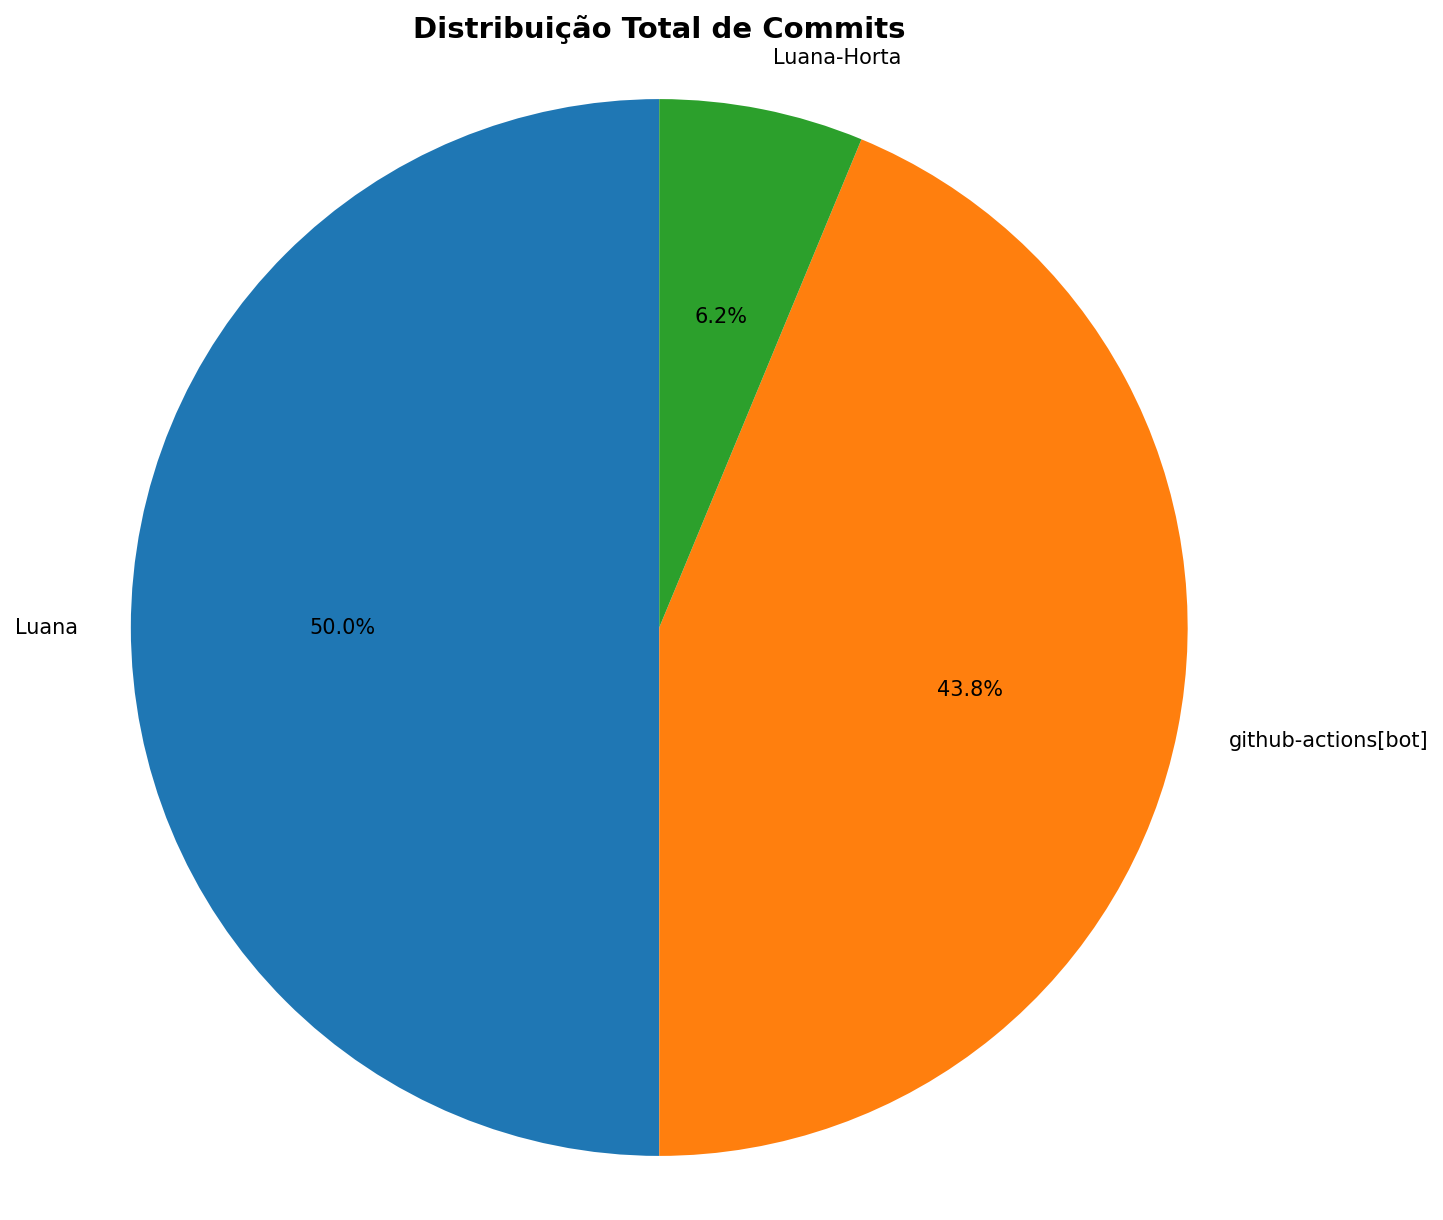
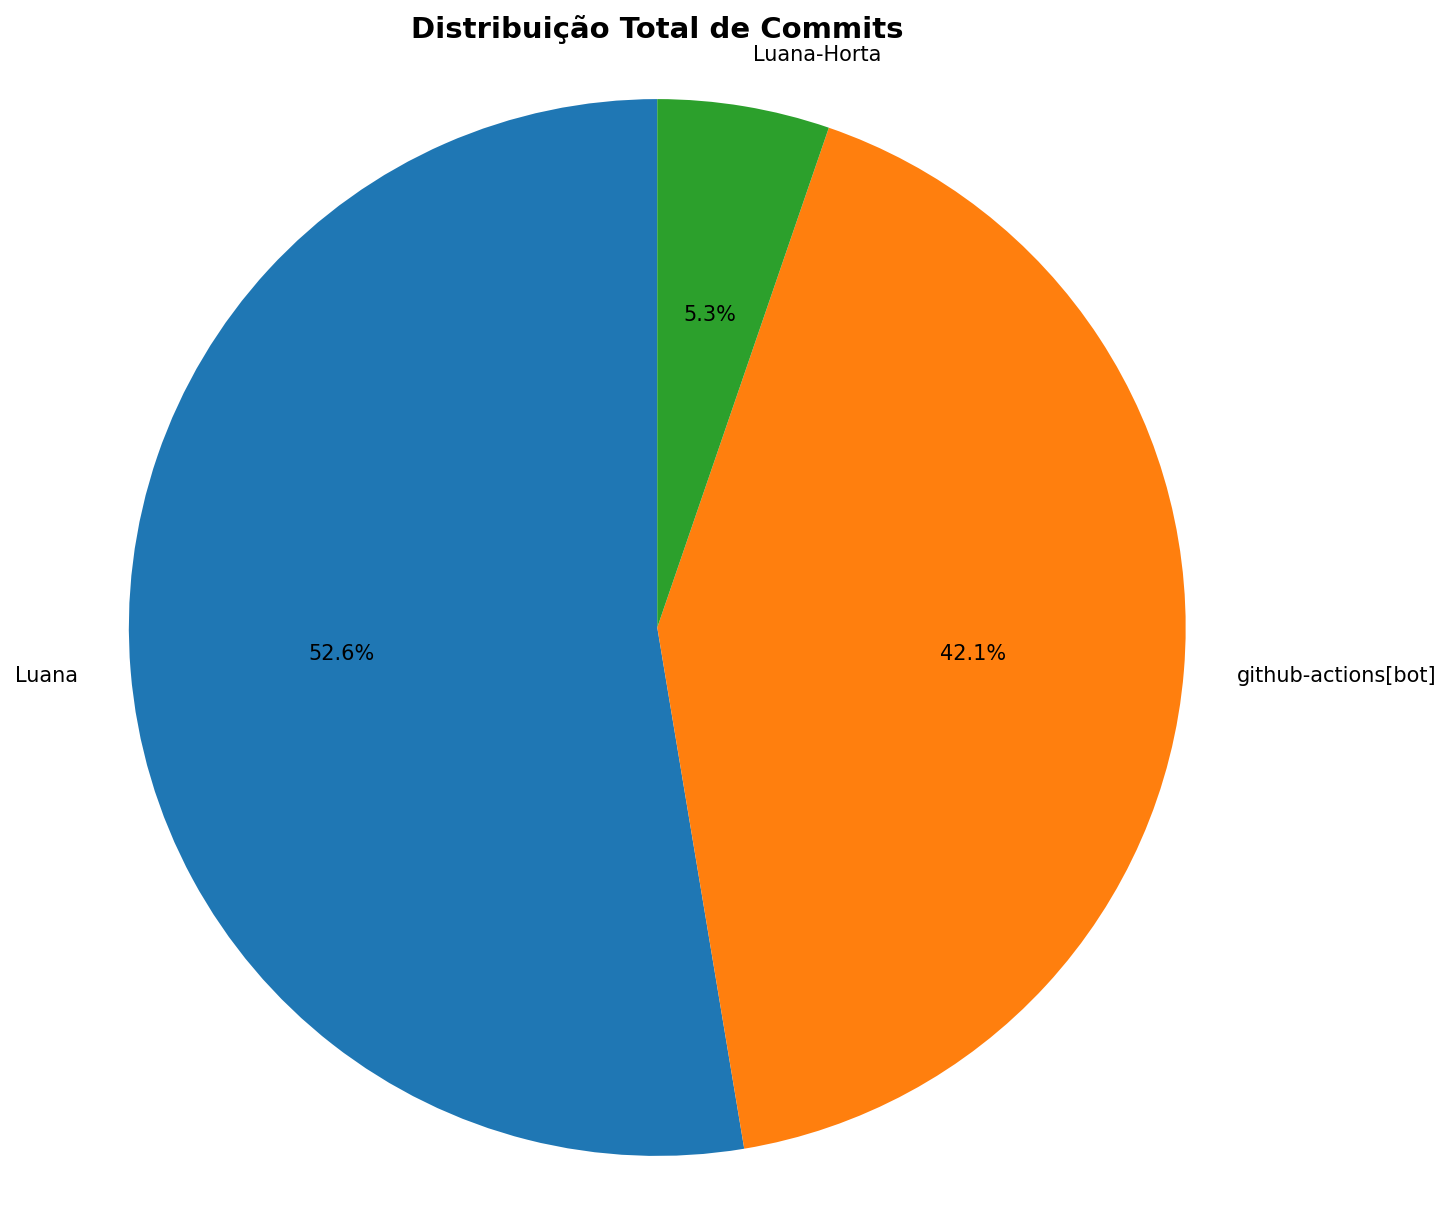
📊 Atualizar relatório de contribuições [skip ci]

diff --git a/docs/CONTRIBUTION_REPORT.md b/docs/CONTRIBUTION_REPORT.md
@@ -1,6 +1,6 @@
 # 📊 Relatório de Contribuições do Projeto
 
-**Última atualização:** 09/04/2026 21:11
+**Última atualização:** 09/04/2026 21:41
 
 ---
 
@@ -8,14 +8,14 @@
 
 | Aluno               |   Commits |   Linhas+ |   Linhas- |   Arquivos |   Docs Commits |   Docs Arquivos |
 |---------------------|-----------|-----------|-----------|------------|----------------|-----------------|
-| Luana               |         8 |     10739 |       994 |        300 |              2 |               0 |
+| Luana               |        10 |     10786 |      1110 |        301 |              2 |               0 |
 | Luana-Horta         |         1 |      2152 |         0 |         45 |              1 |              13 |
-| github-actions[bot] |         7 |        45 |        56 |          3 |              7 |               1 |
+| github-actions[bot] |         8 |        49 |        60 |          3 |              8 |               1 |
 
 
 ## 📅 Contribuições Semanais (Todo o Semestre)
 
-**2026-04-02**: Luana: 6, github-actions[bot]: 4
+**2026-04-02**: Luana: 8, github-actions[bot]: 5
 
 **2026-03-26**: Luana: 2, Luana-Horta: 1, github-actions[bot]: 3
 
